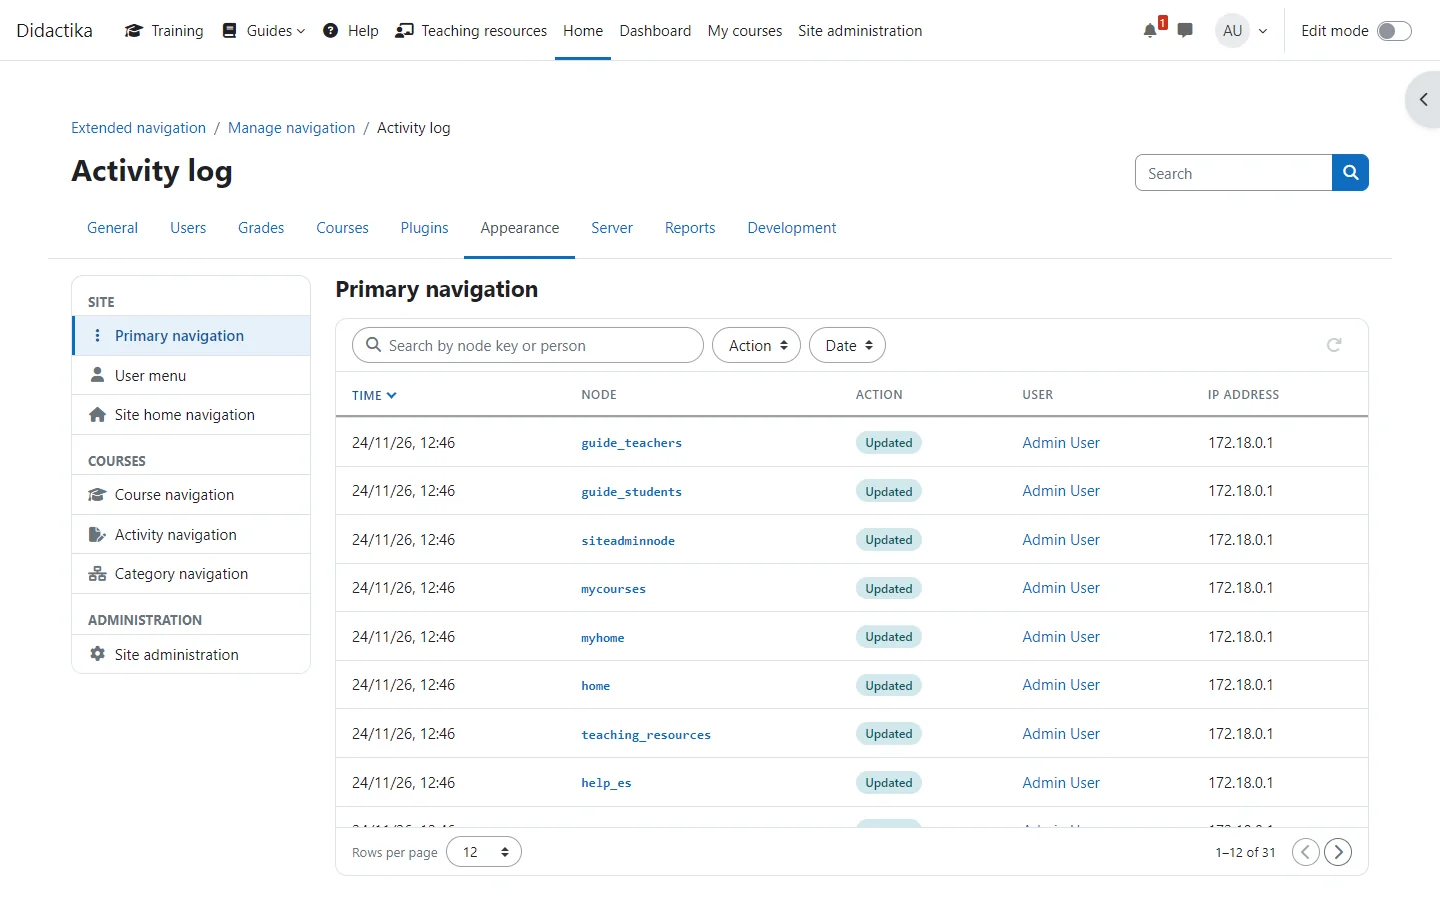
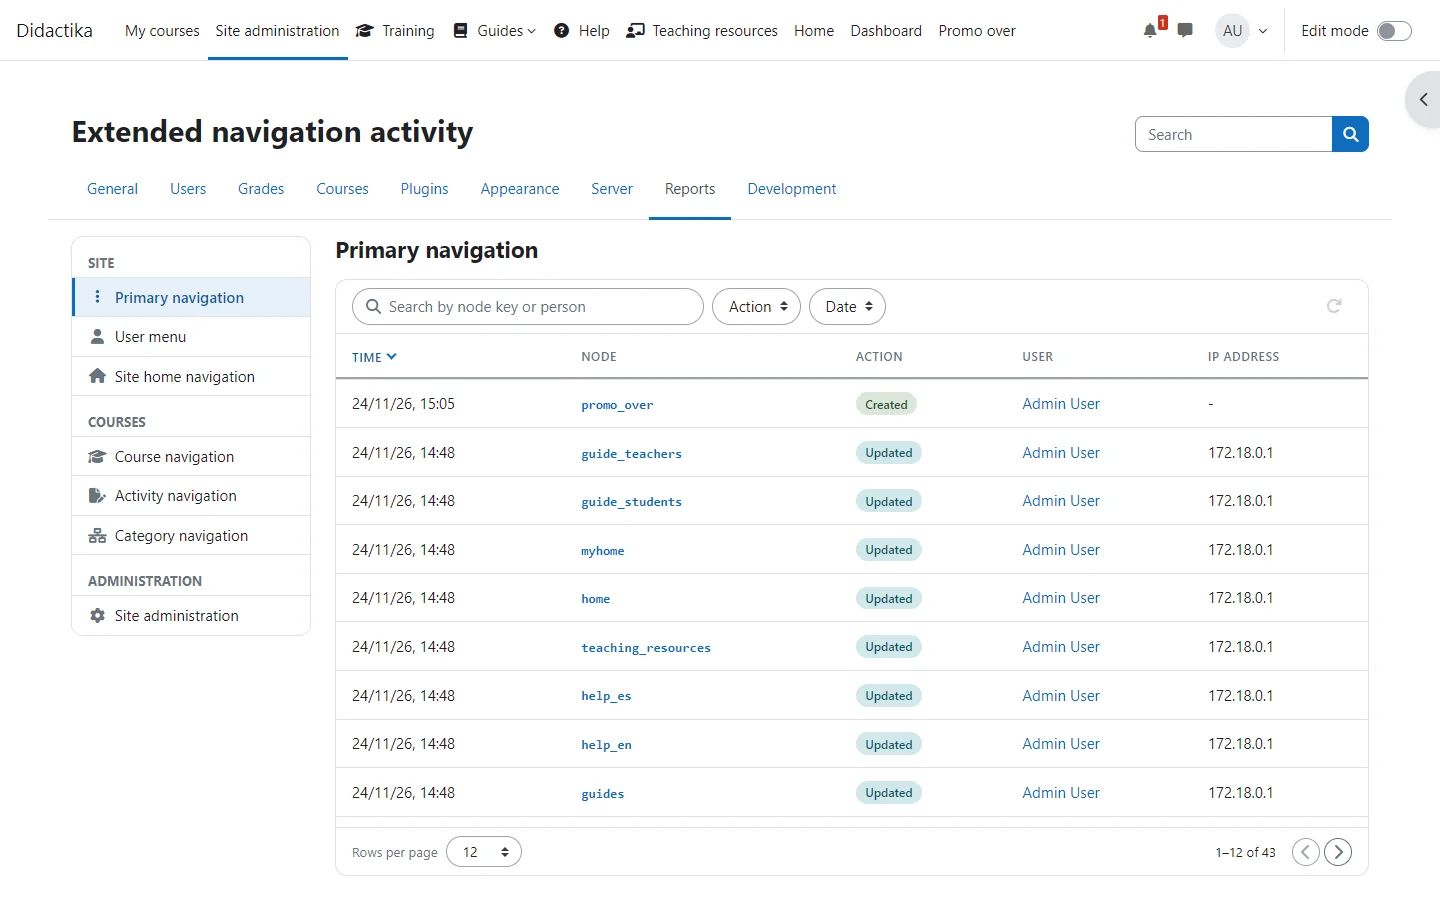
docs: conditions and dates of a node, the activity report, and exceptions of a course in its backup
- New guide: Show a node to some people or for a time, with the restrictions, the badges and the screenshot of the
  form.
- The activity log is reached from Site administration > Reports; the exceptions page, the reference and the YAML
  format say what goes in the file of the site and what in the backup of a course; the field availability.
- Technical documentation: the entity Condition and the rules RN-015 to RN-017.

diff --git a/docs/es/technical/domain/README.md b/docs/es/technical/domain/README.md
@@ -36,6 +36,7 @@ La posición vertical de una entidad expresa su importancia para el objetivo del
 | Menu | 2 | Uno de los dos menús: la navegación principal o el menú de usuario. | `primary`, `usermenu` | Es una clase del plugin, no una tabla. |
 | Visibility | 2 | Quién ve un nodo: todos, los usuarios con algunos roles o nadie. | `visibility` | |
 | Role | 3 | Un rol que puede ver un nodo restringido. | nombre corto del rol | Es el `role` de Moodle. |
+| Condition | 3 | Una restricción de acceso de Moodle sobre un nodo: una fecha, un grupo, un agrupamiento, un campo del perfil o una condición de un plugin. | `availability` | Es el árbol de disponibilidad de Moodle, guardado como JSON en el nodo. |
 | Language | 3 | Un idioma al que se limita un nodo. | código de idioma | Es una lista de códigos en el nodo. |
 | Submenu | 3 | Los nodos que se muestran bajo un nodo padre, a un nivel de profundidad. | `parentkey` | |
 | ActivityRecord | 4 | Un evento del registro de Moodle escrito cuando un nodo se crea, cambia o elimina. | evento, usuario, hora | Es el registro de Moodle. |
@@ -54,11 +55,14 @@ La posición vertical de una entidad expresa su importancia para el objetivo del
 | RN-007 | Reordenar mantiene a un padre con su submenú, y un elemento de submenú solo se mueve entre sus hermanos. | Node, Submenu | `manager::reorder` |
 | RN-008 | Un elemento de Moodle con campos vacíos conserva los valores de Moodle. | Node | `text` |
 | RN-009 | Un nodo de una navegación secundaria se encuentra cuando una página lo muestra, una sola vez, y desde entonces tiene una fila que se puede cambiar. | Node, Menu | `secondary::record_seen` |
-| RN-010 | En la administración del sitio cada categoría y cada página, a cualquier profundidad, se puede renombrar, ocultar y ordenar; un enlace del plugin va en una categoría; sus nodos también se ocultan a los administradores de forma predeterminada.  Node, Menu | `admintree::apply` |
+| RN-010 | En la administración del sitio cada categoría y cada página, a cualquier profundidad, se puede renombrar, ocultar y ordenar; un enlace del plugin va en una categoría; sus nodos también se ocultan a los administradores de forma predeterminada. | Node, Menu | `admintree::apply` |
 | RN-011 | Un administrador del sitio ve todos los nodos, salvo que el plugin o el nodo se lo oculten también a los administradores. | Node, Role | `access::is_allowed` |
 | RN-012 | Para cada nodo gana el ámbito más cercano a la página: el curso, luego las categorías que lo rodean y luego el sitio. | Node, Scope | `repository::get_scoped_nodes` |
 | RN-013 | Cuando un ámbito cambia el orden de un nodo, fija el orden de toda su navegación. | Node, Scope | `repository::get_scoped_nodes` |
 | RN-014 | Eliminar un nodo del sitio elimina sus excepciones. | Node, Scope | `manager::delete` |
+| RN-015 | Un nodo se muestra solo cuando su visibilidad, sus roles y sus restricciones de acceso (la restricción de acceso de Moodle) permiten verlo al usuario; un nodo de un curso se comprueba en ese curso. | Node, Condition | `availability::allows` |
+| RN-016 | Las fechas de las restricciones hacen que un nodo esté programado antes de su inicio y finalizado después de su fin; aparece y desaparece por sí solo. | Node, Condition | `availability::period` |
+| RN-017 | Las excepciones de un curso viajan en la copia de seguridad del curso; el archivo del sitio contiene los nodos del sitio y las excepciones de sus categorías. | Node, Scope | `backup_local_extendednav_plugin`, `exporter::export_file` |
 
 ## Ciclos de vida
 

diff --git a/docs/en/technical/domain/README.md b/docs/en/technical/domain/README.md
@@ -36,6 +36,7 @@ The vertical position of an entity expresses its importance to the project objec
 | Menu | 2 | One of the two menus: the primary navigation or the user menu. | `primary`, `usermenu` | It is a class of the plugin, not a table. |
 | Visibility | 2 | Who sees a node: everyone, the users with some roles, or nobody. | `visibility` | |
 | Role | 3 | A role that may see a restricted node. | role shortname | It is Moodle's `role`. |
+| Condition | 3 | An access restriction of Moodle on a node: a date, a group, a grouping, a profile field or a condition of a plugin. | `availability` | It is Moodle's availability tree, kept as JSON in the node. |
 | Language | 3 | A language to which a node is limited. | language code | It is a list of codes in the node. |
 | Submenu | 3 | The nodes shown under a parent node, one level deep. | `parentkey` | |
 | ActivityRecord | 4 | An event of the log of Moodle written when a node is created, changed or deleted. | event, user, time | It is Moodle's log. |
@@ -54,11 +55,14 @@ The vertical position of an entity expresses its importance to the project objec
 | RN-007 | Reordering keeps a parent with its submenu, and a submenu item moves only among its siblings. | Node, Submenu | `manager::reorder` |
 | RN-008 | An item of Moodle with empty fields keeps the values of Moodle. | Node | `text` |
 | RN-009 | A node of a secondary navigation is found when a page shows it, once, and from then on it has a row that can be changed. | Node, Menu | `secondary::record_seen` |
-| RN-010 | In the site administration every category and page, at any depth, can be renamed, hidden and ordered; a link of the plugin goes in a category; its nodes are hidden from administrators too by default.  Node, Menu | `admintree::apply` |
+| RN-010 | In the site administration every category and page, at any depth, can be renamed, hidden and ordered; a link of the plugin goes in a category; its nodes are hidden from administrators too by default. | Node, Menu | `admintree::apply` |
 | RN-011 | A site administrator sees every node, unless the plugin or the node hides it from administrators too. | Node, Role | `access::is_allowed` |
 | RN-012 | The nearest scope to a page wins for each node: the course, then the categories around it, then the site. | Node, Scope | `repository::get_scoped_nodes` |
 | RN-013 | When a scope changes the order of any node, it sets the order of its whole navigation. | Node, Scope | `repository::get_scoped_nodes` |
 | RN-014 | Deleting a node of the site deletes its exceptions. | Node, Scope | `manager::delete` |
+| RN-015 | A node is shown only when its visibility, its roles and its access restrictions (Moodle's Restrict access) all let the user see it; a node of a course is checked in that course. | Node, Condition | `availability::allows` |
+| RN-016 | The dates of the restrictions make a node scheduled before its start and ended after its end; it appears and disappears on its own. | Node, Condition | `availability::period` |
+| RN-017 | The exceptions of a course travel in the backup of the course; the file of the site holds the nodes of the site and the exceptions of its categories. | Node, Scope | `backup_local_extendednav_plugin`, `exporter::export_file` |
 
 ## Lifecycles
 

diff --git a/CHANGELOG.md b/CHANGELOG.md
@@ -21,6 +21,10 @@ Keep an "## [Unreleased]" section above the latest release and rename it when th
 - Each node says whether Moodle manages it or it was added, and a menu Origin filters by it. The visibility shows a badge for each kind of restriction, with the details in a tooltip.
 - An empty secondary navigation finds its nodes from a page of the site, without leaving the management page.
 - The site administration groups the items of the General tab of Moodle under General.
+- Access restrictions of Moodle on every node, as Restrict access of an activity: dates, groups and groupings of a course, profile fields and the conditions of the plugins of the site. Dates make nodes that appear and end on their own, marked Scheduled and Ended on the list.
+- The activity log is a report, Extended navigation activity, in Site administration > Reports.
+- The exceptions of a course are part of its backup and come back with it; the file of the site holds the nodes of the site and the exceptions of its categories.
+- Thousands of exceptions export and import in seconds: the names of their courses and categories are read together, and a node that does not change is not written again.
 - One On and Off button next to the name of each navigation applies its changes or leaves the navigation as Moodle draws it. The settings page of the plugin is gone.
 - Site administrators see every node by default, even one that is hidden or restricted to roles they do not have, and their row says so. An option of each node applies its rules to administrators too.
 - The secondary navigations of Moodle can be ordered, renamed, re-linked, hidden, restricted to roles or languages, placed in the More menu or kept out of it, and extended with nodes of your own: the navigation of a course, of the site home, of an activity and of a category.
